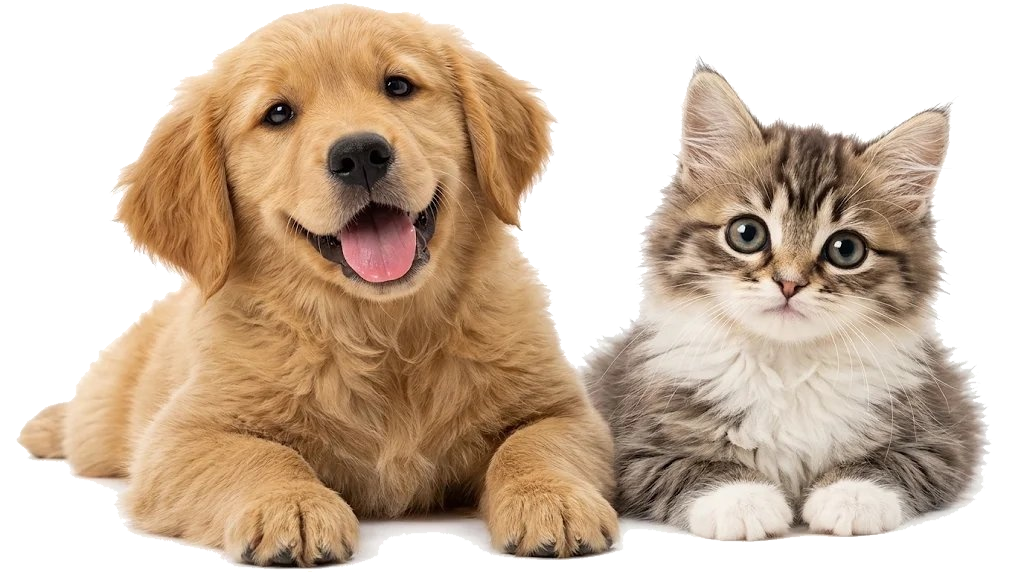
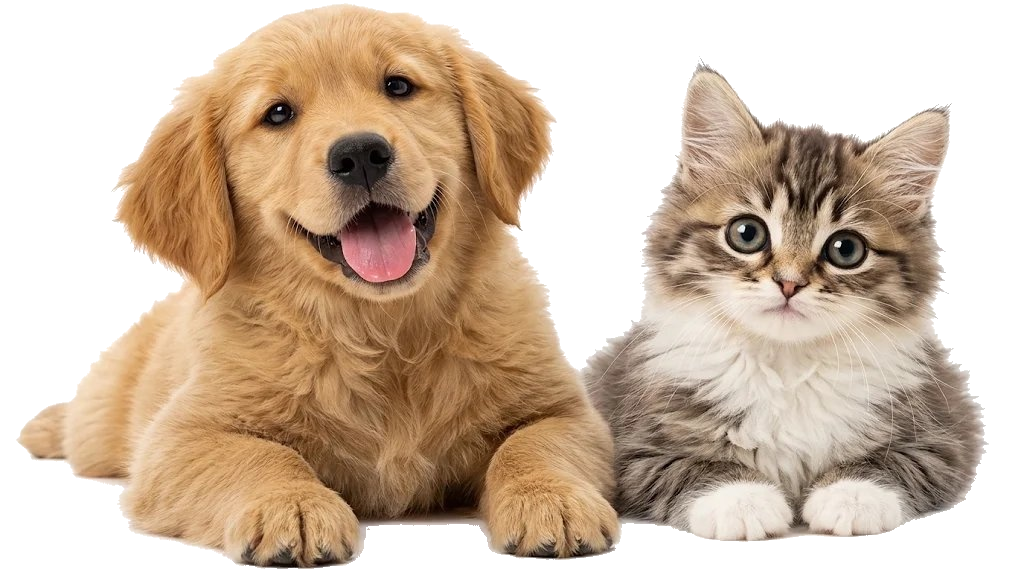
fix(footer): remove white floor halo and refine pet cutout for seamless dark footer integration

diff --git a/src/components/Footer.jsx b/src/components/Footer.jsx
@@ -12,7 +12,7 @@ export default function Footer({ onOpenAdopt, onOpenBooking }) {
             <img
               src="/images/puppy_kitten_footer_transparent.png"
               alt="Golden retriever puppy and fluffy kitten lying together"
-              className="w-full max-h-[260px] sm:max-h-[340px] object-contain pointer-events-none drop-shadow-xl"
+              className="w-full max-h-[260px] sm:max-h-[340px] object-contain pointer-events-none select-none"
             />
           </div>
         </div>
